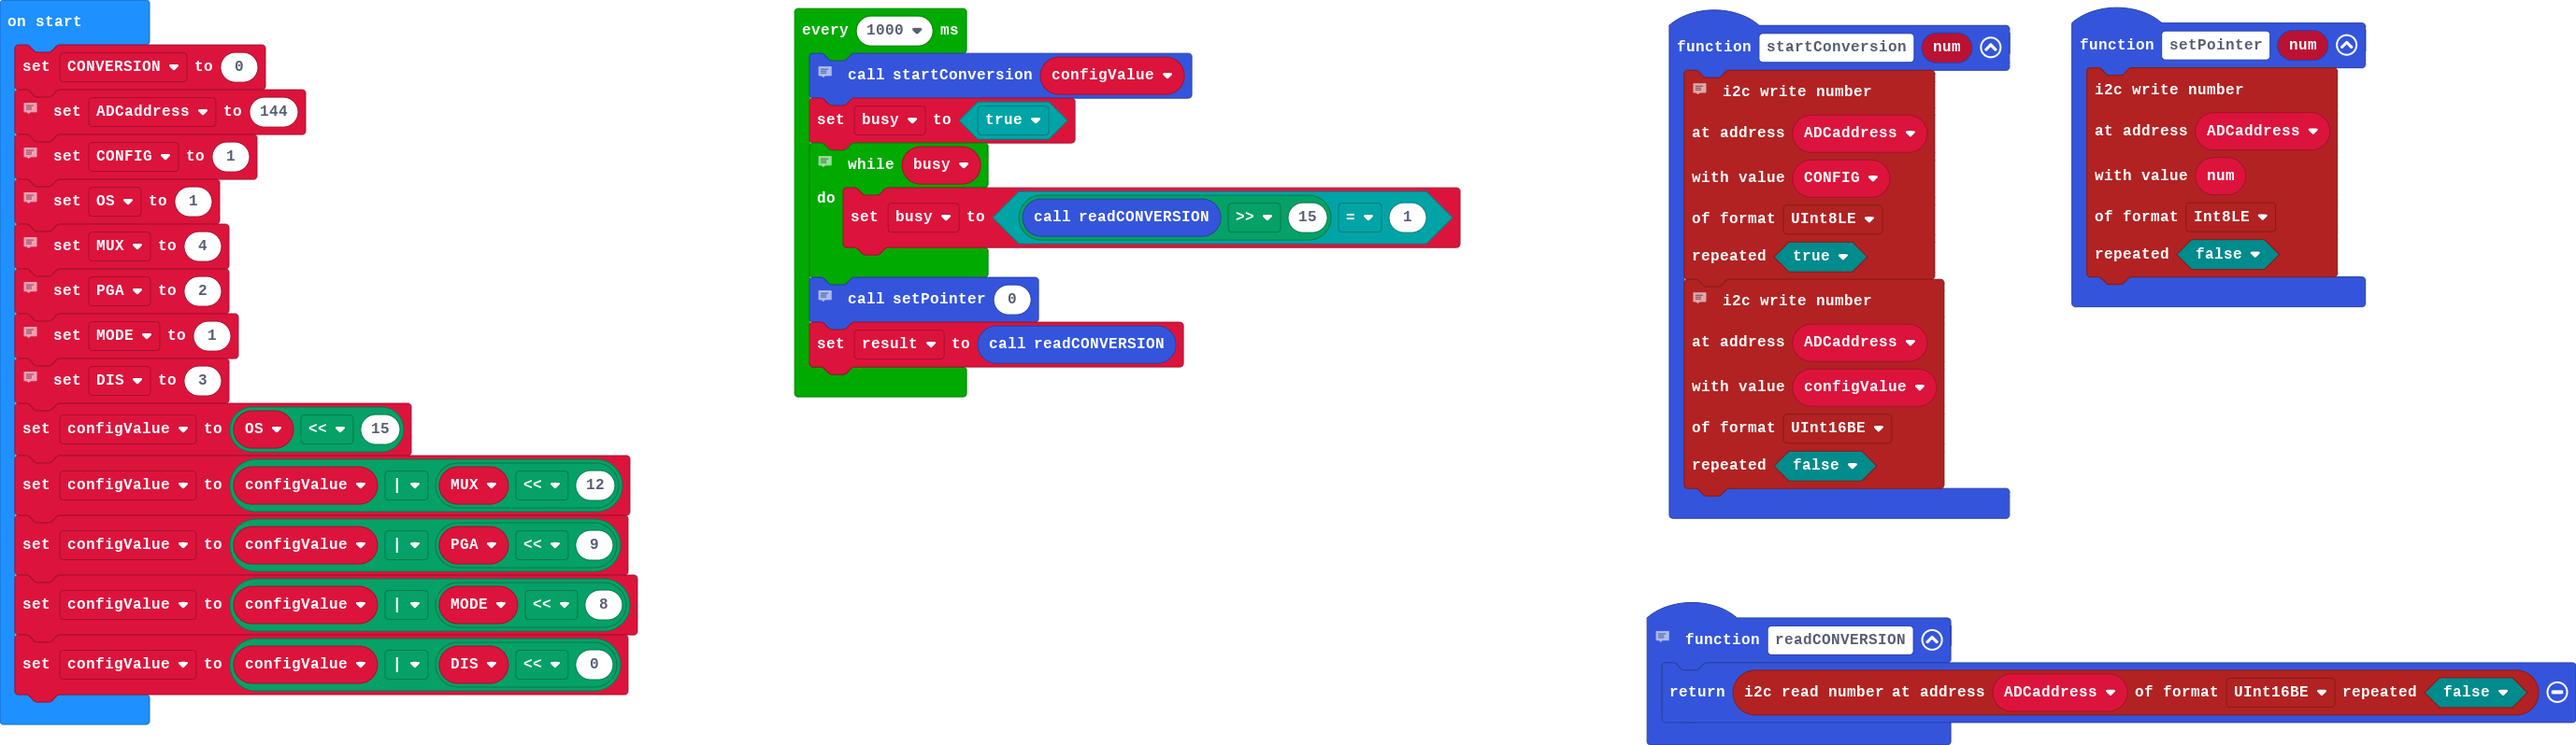
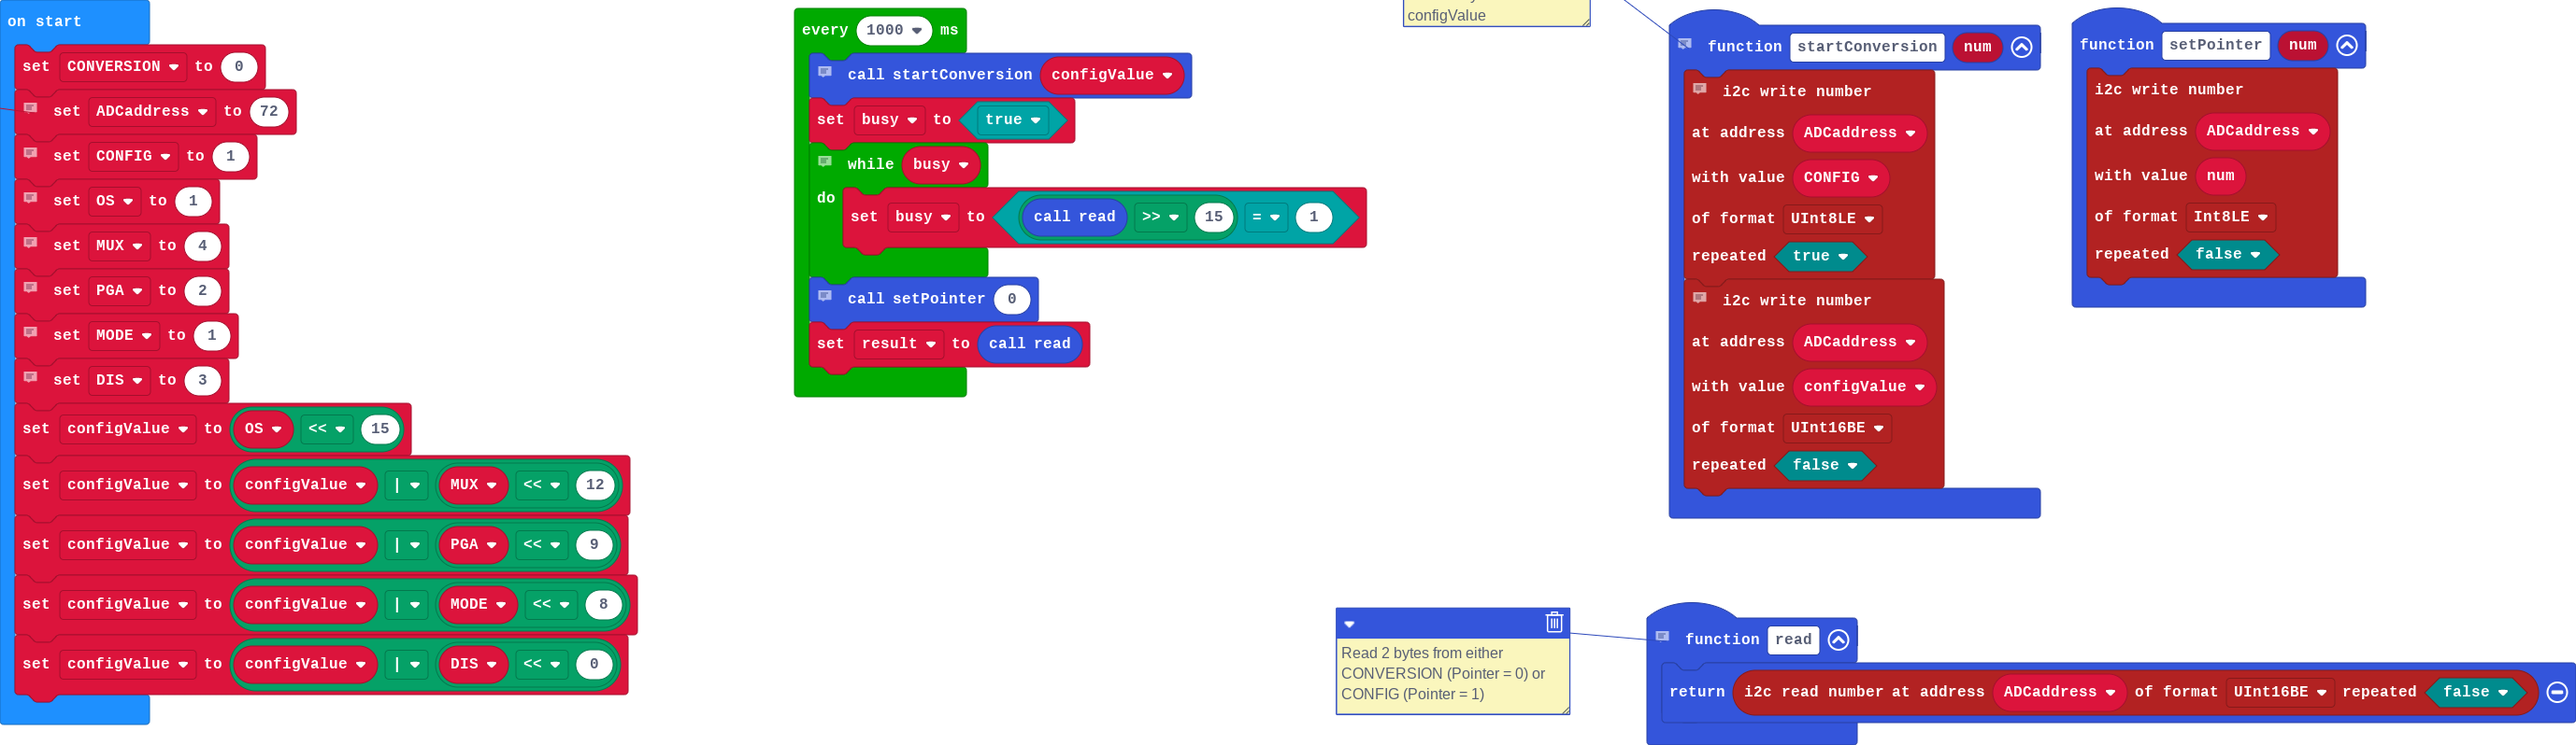
Update main.blocks, main.ts

diff --git a/main.ts b/main.ts
@@ -6,10 +6,13 @@ function setPointer (num: number) {
     false
     )
 }
-// CONFIG Bit fields: 15 = OS 14:12 = MUX 11:9 = PGA 8 = MODE
-function readCONVERSION () {
+// Read 2 bytes from either CONVERSION (Pointer = 0) or CONFIG (Pointer = 1)
+function read () {
     return pins.i2cReadNumber(ADCaddress, NumberFormat.UInt16BE, false)
 }
+// Send:
+// * 1 byte to set Pointer to CONFIG address (01)
+// * then 2 bytes of configValue
 function startConversion (num: number) {
     // Write CONFIG reg address
     pins.i2cWriteNumber(
@@ -32,8 +35,8 @@ let configValue = 0
 let CONFIG = 0
 let ADCaddress = 0
 let CONVERSION = 0
-// slave address
-ADCaddress = 144
+// slave address 0b1001000
+ADCaddress = 72
 // Register 0
 // Register 1
 CONFIG = 1
@@ -58,9 +61,9 @@ loops.everyInterval(1000, function () {
     busy = true
     // Read status until conversion done
     while (busy) {
-        busy = BitwiseLogic.bitwise2arg(readCONVERSION(), operator.rightShift, 15) == 1
+        busy = BitwiseLogic.bitwise2arg(read(), operator.rightShift, 15) == 1
     }
     // Set pointer to read result
     setPointer(0)
-    result = readCONVERSION()
+    result = read()
 })
